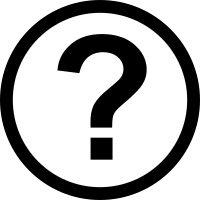
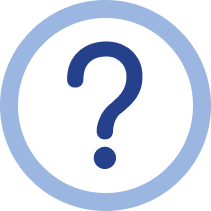
more styling

diff --git a/mainstream/src/pages/HotkeyFolder/Hotkeys.jsx b/mainstream/src/pages/HotkeyFolder/Hotkeys.jsx
@@ -125,8 +125,8 @@ export const HotkeyPage = ({ keyMap, setKeyMap }) => {
             if (a.hotkey != "") {
               return (
                 <div className="hotkeylist-action" key={a.hotkey}>
-                  <div>{a.name}</div>
-                  <div>{a.hotkey}</div>
+                  <div className="displayname">{a.name}</div>
+                  <div className="displaykey">{a.hotkey}</div>
                   <button
                   className="butt"
                     onClick={() => {

diff --git a/mainstream/src/pages/HotkeyFolder/Hotkeys.css b/mainstream/src/pages/HotkeyFolder/Hotkeys.css
@@ -37,10 +37,18 @@ option {
   border-radius: 20px;
   border: none;
   font-family: comfortaa, 400;
+  padding:50px;
+}
+.opt:hover{
+  color:inherit;
+  background-color: inherit;
 }
 .optdiv {
   border-radius: 20px;
   border: none;
+}
+.displayname{
+  width: 350px;
 }
 .butt {
   font-family: comfortaa, 400;

diff --git a/mainstream/src/pages/NotepadOverlay.css b/mainstream/src/pages/NotepadOverlay.css
@@ -22,4 +22,5 @@
   font-family: "Patrick Hand", cursive;
   font-weight: 400;
   font-style: normal;
+   overflow-wrap: break-word;
 }
